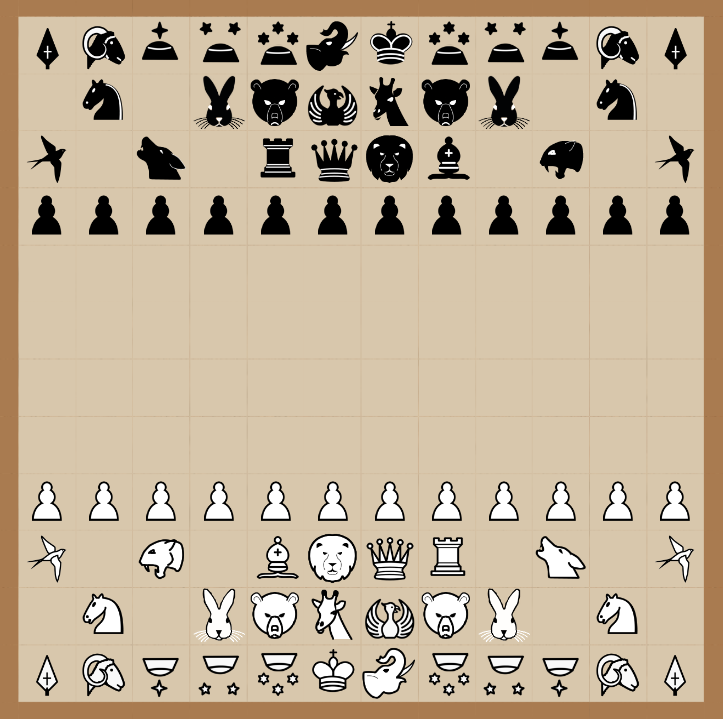
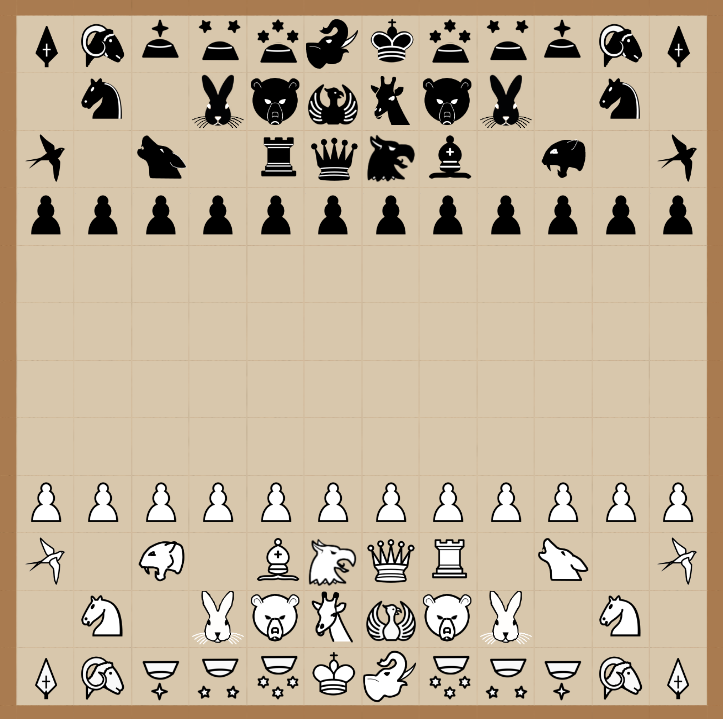
Seireigis : improve rules

diff --git a/src/games/chessbase/res/rules/shogi/chu-seireigi-shogi-rules.html b/src/games/chessbase/res/rules/shogi/chu-seireigi-shogi-rules.html
@@ -29,60 +29,76 @@
 <p><img style="max-width:100%;" src="{GAME}/res/rules/shogi/rook.png"/><b>Rook</b> : as in chess.</p>
 <p><img style="max-width:100%;" src="{GAME}/res/rules/shogi/bishop.png"/><b>Bishop</b> : as in chess.</p>
 <p><img style="max-width:100%;" src="{GAME}/res/rules/shogi/king.png"/><b>King</b> : as in chess.</p>
-<p><img style="max-width:100%;" src="{GAME}/res/rules/shogi/horse.png"/><b>Horse</b> : The Knight has the two forward-most moves of the Chess knight.</p>
+<p><img style="max-width:100%;" src="{GAME}/res/rules/shogi/horse.png"/><b>Knight</b> : The Knight has the two forward-most moves of the Chess knight.</p>
 <p><img class="piece-graph" src="{GAME}/res/rules/shogi/shogi-horse.png"/></p>
 <p><img style="max-width:100%;" src="{GAME}/res/rules/shogi/lance.png"/><b>Lance</b> : The Lance moves as a Rook but only forward in the same file, never sideways or backward.</p>
-<p><img class="piece-graph" src="{GAME}/res/rules/shogi/shogi-lance.png"/></p>
-<p><b><img style="max-width:100%;" src="{GAME}/res/rules/shogi/rabbit.png"/>Running Rabbit</b></p><p><img class="piece-graph" src="{GAME}/res/rules/shogi/graphs/rabbit.png"/></p>
-<p><b><img style="max-width:100%;" src="{GAME}/res/rules/shogi/flying-swallow.png"/>Swallow</b></p><p><img class="piece-graph" src="{GAME}/res/rules/shogi/graphs/swallow.png"/></p>
-
-<h2>Promotion</h2>
-<p><b><img style="max-width:100%;" src="{GAME}/res/rules/shogi/great-elephant.png"/> Great elephant</b> is the promotion of Gold general </p> 
+<p><img class="piece-graph" src="{GAME}/res/rules/shogi/graphs/shogi-lance.png"/></p>
+<p><b>Running rabbit</b></p><p><img class="piece-graph" src="{GAME}/res/rules/shogi/graphs/rabbit.png"/></p>
+<p><b>Flying swallow</b></p><p><img class="piece-graph" src="{GAME}/res/rules/shogi/graphs/swallow.png"/></p>
+<p><b>Copper general</b></p><p><img class="piece-graph" src="{GAME}/res/rules/shogi/graphs/copper.png"/></p>
+<p><b>Strong bear</b></p><p><img class="piece-graph" src="{GAME}/res/rules/shogi/graphs/bear.png"/></p>
+<p><img style="max-width:100%;" src="{GAME}/res/rules/shogi/great-elephant.png"/><b>Great elephant</b></p>
 <p><img class="piece-graph" src="{GAME}/res/rules/shogi/graphs/great-elephant.png"/></p>
-
-<p><b><img style="max-width:100%;" src="{GAME}/res/rules/shogi/running-wolf.png"/> Running Wolf </b> is the promotion of Silver general</p> 
+<p><img style="max-width:100%;" src="{GAME}/res/rules/shogi/running-wolf.png"/><b>Running wolf</b></p>
 <p><img class="piece-graph" src="{GAME}/res/rules/shogi/graphs/running-wolf.png"/></p>
-<p><b><img style="max-width:100%;" src="{GAME}/res/rules/shogi/great-leopard.png"/>Great Leopard </b> is the promotion of Copper general</p> 
-<p><b><img class="piece-graph" src="{GAME}/res/rules/shogi/graphs/great-Leopard.png"/></p>
-<p><b><img style="max-width:100%;" src="{GAME}/res/rules/shogi/heavenly-horse.png"/>Heavenly horse</b> is the promotion of shogi horse </p> 
+<p><img style="max-width:100%;" src="{GAME}/res/fairy/icons/w-leopard.png"/><b>Great leopard</b></p>
+<p><img class="piece-graph" src="{GAME}/res/rules/shogi/graphs/great-leopard.png"/></p>
+<p><b>Lion Hawk</b></p>
+<p><img class="piece-graph" src="{GAME}/res/rules/shogi/graphs/seireigi-lion-hawk.png"/></p>
+
+
+<p><b>Ram's-head soldier</b> : moves as a Bishop but only forward, never backward.</p>
+<p><b>Kirin</b> : as in chu shogi.</p>
+<p><b>Phoenix</b> : as in chu shogi.</p>
+<p><b>Queen</b> : as in chess.</p>
+
+<h2>Promotion-exclusive Pieces</h2>
+<p><img style="max-width:100%;" src="{GAME}/res/rules/shogi/heavenly-horse.png"/><b>Heavenly horse</b> is the promotion of the Knight</p> 
 <p><img class="piece-graph" src="{GAME}/res/rules/shogi/graphs/heavenly-horse.png"/></p>
-<p><b> <img style="max-width:100%;" src="{GAME}/res/rules/shogi/free-tiger.png"/>Free Tiger</b> is the promotion of Lance</p> 
+<p><img style="max-width:100%;" src="{GAME}/res/rules/shogi/free-tiger.png"/><b>Free tiger</b> is the promotion of the Lance</p> 
 <p><img class="piece-graph" src="{GAME}/res/rules/shogi/graphs/free-tiger.png"/></p>
 
 
-<p><b><img style="max-width:100%;" src="{GAME}/res/rules/shogi/flying-ox.png"/>Flying Ox</b> is the promotion of the Great Leopard</b></p>
+<p><img class='piece-icon' src="{GAME}/res/fairy/icons/w-flying-ox.png"/><b>Flying ox</b> is the promotion of the Great leopard</p>
 <p><img class='piece-graph' src="{GAME}/res/rules/shogi/graphs/flying-ox.png"/></p>
 
-<p><b><img style="max-width:100%;" src="{GAME}/res/rules/shogi/free-boar.png"/>Free Boar</b> is the promotion of the Running Wolf</p>
+<p><img class='piece-icon' src="{GAME}/res/fairy/icons/w-free-boar.png"/><b>Free boar</b> is the promotion of the Running wolf</p>
 <p><img class='piece-graph' src="{GAME}/res/rules/shogi/graphs/boar.png"/></p>
 
-<p><b><img style="max-width:100%;" src="{GAME}/res/rules/shogi/seireigi-whale.png"/>Whale</b> is the promotion of the Strong Bear </p>
+<p><img class='piece-icon' src="{GAME}/res/rules/shogi/w-trident.png"/><b>Whale</b> is the promotion of the Strong bear</p>
 <p><img class='piece-graph' src="{GAME}/res/rules/shogi/graphs/seireigi-whale.png"/></p>
-
-
-<p><b><img style="max-width:100%;" src="{GAME}/res/rules/shogi/prancing-stag.png"/>Prancing Stag</b> is the promotion of the Running Rabbit</p> 
+<p><b>Prancing stag</b> is the promotion of the Running rabbit</p> 
 <p><img class="piece-graph" src="{GAME}/res/rules/shogi/graphs/stag.png"/></p>
-<p><b>Teaching King</b> is the promotion of the Great Elephant</p> <p><img class="piece-graph" src="{GAME}/res/rules/shogi/graphs/teacher.png"/></p>
+<p><b>Teaching king</b> is the promotion of the Great elephant</p> <p><img class="piece-graph" src="{GAME}/res/rules/shogi/graphs/teacher.png"/></p>
+<p><b>Treacherous fox</b> is the promotion of the Ram's-head soldier</p> <p><img class="piece-graph" src="{GAME}/res/rules/shogi/graphs/fox.png"/></p>
+<p><b>Golden bird</b> is the promotion of the Flying swallow</p> <p><img class="piece-graph" src="{GAME}/res/rules/shogi/graphs/bird.png"/></p>
+<p><b>Pawn</b> promotes to <b>Tokin</b>, which move like a Gold general.</p>
+<p><b>Rook</b> and <b>Bishop</b> gain king move upon promotion to <b>Dragon king</b> and <b>Dragon horse</b>, respectively.</p>
 
-
-
-<p><b><img style="max-width:100%;" src="{GAME}/res/rules/shogi/treacherous-fox.png"/>Treacherous Fox</b> is the promotion of the Ram's-Head Soldier</p> <p><img class="piece-graph" src="{GAME}/res/rules/shogi/graphs/fox.png"/></p>
-<p><b>Golden Bird</b> is the promotion of the lying Swallow</p> <p><img class="piece-graph" src="{GAME}/res/rules/shogi/graphs/bird.png"/></p>
-<p><b>Pawn</b> promotes to tokin that move like a gold general </p>
-<p><b>Rook and bishop</b> gain king move with promotion </p>
+<h2>Promotions</h2>
+<p>Pawn -> Tokin = Gold general -> Great elephant -> Teaching king</p>
+<p>Copper general -> Great leopard -> Flying ox</p>
+<p>Silver general -> Running wolf -> Free boar</p>
+<p>Kirin -> Bishop -> Dragon horse</p>
+<p>Phoenix -> Rook -> Dragon king</p>
+<p>Strong bear -> Whale</p>
+<p>Lance -> Free tiger</p>
+<p>Ram's-head soldier -> Treacherous fox</p>
+<p>Running rabbit -> Prancing stag</p>
+<p>Knight -> Heavenly horse</p>
+<p>Flying swallow -> Golden bird</p>
+<p>The promotion zone is the farthest four ranks of the board, and a piece may promote if part of its move touches the zone. Promotion is optional unless no subsequent move is possible otherwise. So a Pawn, Lance, Ram's-head soldier, or Running rabbit must promote on the last row, and a Knight or Flying swallow must promote on the last two rows.</p>
+<p>The King, Queen, and Lion Hawk do not promote, nor can already promoted pieces promote further.</p>
 
 
 <h2>Drops</h2>
 <p>Captured pieces become prisoners and lose their promotion, guarded on your right. You can use your turn to put them back into play. A player can either move one of his pieces or drop a prisoner back into play on his behalf. </p>
 
-<p>A pawn can’t be dropped on a column with an unpromoted pawn of the same color.</p>
+<p>A Pawn can’t be dropped on a column with an unpromoted Pawn of the same color.</p>
 
-<p>A pawn can’t make an immediate checkmate when dropped. It is allowed for other pieces.</p>
+<p>A Pawn can’t make an immediate checkmate when dropped. It is allowed for other pieces.</p>
 
-<p>A piece can’t be dropped is no subsequent move is possible, so a pawn cannot be dropped on the last line.</p>
+<p>A piece can’t be dropped where no subsequent move is possible, so a Pawn, Lance, Ram's-head soldier, or Running rabbit cannot be dropped on the last row, and a Knight or Flying swallow cannot be dropped on the last two rows.</p>
 
 <h2>Available skins</h2>
 <p>2D skins are available for all, 3D skins need WebGL so please use Chrome or Firefox.</p>
-
-
-

diff --git a/src/games/chessbase/res/rules/shogi/seireigi-rules.html b/src/games/chessbase/res/rules/shogi/seireigi-rules.html
@@ -6,8 +6,8 @@
         display: inline-flex;
     }
 </style>
-<h2>Seireigi Shogi</h2>
-<p>Seireigi shogi differs from shogi in its promotions. 
+<h2>Seireigi</h2>
+<p>Seireigi differs from shogi in its promotions. 
 To win you have to checkmate the king of your opponent.</p>
 
 <h2>Board</h2>
@@ -46,34 +46,34 @@ To win you have to checkmate the king of your opponent.</p>
 <p><img style="max-width:100%;" src="{GAME}/res/rules/shogi/rook.png"/><b>Rook</b> : as in chess.</p>
 <p><img style="max-width:100%;" src="{GAME}/res/rules/shogi/bishop.png"/><b>Bishop</b> : as in chess.</p>
 <p><img style="max-width:100%;" src="{GAME}/res/rules/shogi/king.png"/><b>King</b> : as in chess.</p>
-<p><img style="max-width:100%;" src="{GAME}/res/rules/shogi/horse.png"/><b>Horse</b> : The Knight has the two forward-most moves of the Chess knight.</p>
+<p><img style="max-width:100%;" src="{GAME}/res/rules/shogi/horse.png"/><b>Knight</b> : The Knight has the two forward-most moves of the Chess knight.</p>
 <p><img class="piece-graph" src="{GAME}/res/rules/shogi/shogi-horse.png"/></p>
 <p><img style="max-width:100%;" src="{GAME}/res/rules/shogi/lance.png"/><b>Lance</b> : The Lance moves as a Rook but only forward in the same file, never sideways or backward.</p>
-<p><img class="piece-graph" src="{GAME}/res/rules/shogi/shogi-lance.png"/></p>
-<h2>Promotion</h2>
-<p><b><img style="max-width:100%;" src="{GAME}/res/rules/shogi/great-elephant.png"/> Great elephant</b> is the promotion of Gold general </p> 
+<p><img class="piece-graph" src="{GAME}/res/rules/shogi/graphs/shogi-lance.png"/></p>
+<h2>Promotions</h2>
+<p><b><img style="max-width:100%;" src="{GAME}/res/rules/shogi/great-elephant.png"/> Great elephant</b> is the promotion of Gold general</p> 
 <p><img class="piece-graph" src="{GAME}/res/rules/shogi/graphs/great-elephant.png"/></p>
 <p><b><img style="max-width:100%;" src="{GAME}/res/rules/shogi/running-wolf.png"/> Running wolf </b> is the promotion of Silver general</p> 
 <p><img class="piece-graph" src="{GAME}/res/rules/shogi/graphs/running-wolf.png"/></p>
-<p><b><img style="max-width:100%;" src="{GAME}/res/rules/shogi/heavenly-horse.png"/>Heavenly horse</b> is the promotion of shogi horse </p> 
+<p><b><img style="max-width:100%;" src="{GAME}/res/rules/shogi/heavenly-horse.png"/>Heavenly horse</b> is the promotion of Knight</p> 
 <p><img class="piece-graph" src="{GAME}/res/rules/shogi//graphs/heavenly-horse.png"/></p>
-<p>><b> <img style="max-width:100%;" src="{GAME}/res/rules/shogi/free-tiger.png"/>Free Tiger</b> is the promotion of Lance</p> 
+<p><b> <img style="max-width:100%;" src="{GAME}/res/rules/shogi/free-tiger.png"/>Free tiger</b> is the promotion of Lance</p> 
 <p><img class="piece-graph" src="{GAME}/res/rules/shogi//graphs/free-tiger.png"/></p>
-<p><b>Pawn</b> promotes to tokin that move like a gold general </p>
-<p><b>Rook and bishop</b> gain king move with promotion </p>
+<p><b>Pawn</b> promotes to <b>Tokin</b>, which move like a Gold general.</p>
+<p><b>Rook</b> and <b>Bishop</b> gain king move upon promotion to <b>Dragon king</b> and <b>Dragon horse</b>, respectively.</p>
 
+<p>The promotion zone is the farthest three rows of the board, and a piece may promote if part of its move touches the zone. Promotion is optional unless no subsequent move is possible otherwise. So a Pawn or Lance must promote on the last row, and a Knight must promote on the last two rows.</p>
+<p>The King does not promote, nor can already promoted pieces promote further.</p>
 
 <h2>Drops</h2>
 <p>Captured pieces become prisoners and lose their promotion, guarded on your right. You can use your turn to put them back into play. A player can either move one of his pieces or drop a prisoner back into play on his behalf. </p>
 
-<p>A pawn can’t be dropped on a column with an unpromoted pawn of the same color.</p>
+<p>A Pawn can’t be dropped on a column with an unpromoted Pawn of the same color.</p>
 
-<p>A pawn can’t make an immediate checkmate when dropped. It is allowed for other pieces.</p>
+<p>A Pawn can’t make an immediate checkmate when dropped. It is allowed for other pieces.</p>
 
-<p>A piece can’t be dropped is no subsequent move is possible, so a pawn cannot be dropped on the last line.</p>
+<p>A piece can’t be dropped is no subsequent move is possible, so a Pawn or Lance cannot be dropped on the last row, and a Knight cannot be dropped on the last two rows.</p>
 
 <h2>Available skins</h2>
 <p>2D skins are available for all, 3D skins need WebGL so please use Chrome or Firefox.</p>
-
-
 

diff --git a/src/games/chessbase/index.js b/src/games/chessbase/index.js
@@ -7327,7 +7327,7 @@ exports.games = (function () {
 			"viewScripts": config_view_js_105
 		},
 		{
-			"name": "seireigi-shogi",
+			"name": "seireigi",
 			"modelScripts": modelScripts_seireigi,
 			"config": {
 				"status": true,
@@ -7336,20 +7336,20 @@ exports.games = (function () {
 					"title-en": "Seireigi",
 					"summary": "Shogi with more varied promotions",
 					"rules": {
-						"en": "res/rules/shogi/seireigi-shogi-rules.html",
-						"fr": "res/rules/shogi/seireigi-shogi-rules_fr.html"
+						"en": "res/rules/shogi/seireigi-rules.html",
+						"fr": "res/rules/shogi/seireigi-rules_fr.html"
 					},
 					"module": "chessbase",
 					"plazza": "true",
-					"thumbnail": "res/rules/shogi/seireigi-shogi-thumb.png",
+					"thumbnail": "res/rules/shogi/seireigi-thumb.png",
 					"released": 1396536978,
 					"credits": {
-						"en": "res/rules/shogi/seireigi-shogi-credits.html"
+						"en": "res/rules/shogi/seireigi-credits.html"
 					},
 					"gameOptions": config_model_gameOptions_2,
 					"js": modelScripts_seireigi,
 					"description": {
-						"en": "res/rules/shogi/seireigi-shogi-description.html"
+						"en": "res/rules/shogi/seireigi-description.html"
 					},
 					"levels": config_model_levels_15
 				},
@@ -7357,8 +7357,8 @@ exports.games = (function () {
 					"title-en": "Chessbase view",
 					"visuals": {
 						"600x600": [
-							"res/visuals/seireigi-shogi-600x600-3d.jpg",
-							"res/visuals/seireigi-shogi-600x600-2d.jpg"
+							"res/visuals/seireigi-600x600-3d.jpg",
+							"res/visuals/seireigi-600x600-2d.jpg"
 						]
 					},
 					"xdView": true,
@@ -7425,7 +7425,7 @@ exports.games = (function () {
 					"gameOptions": config_model_gameOptions_2,
 					"js": modelScripts_chu_seireigi,
 					"description": {
-						"en": "res/rules/shogi/seireigi-shogi-description.html"
+						"en": "res/rules/shogi/chu-seireigi-description.html"
 					},
 					"levels": config_model_levels_15
 				},

diff --git a/src/games/chessbase/shogi/chu-seireigi-model.js b/src/games/chessbase/shogi/chu-seireigi-model.js
@@ -675,10 +675,10 @@
                     hand: 17,
 				},
 				66: {
-					name: 'lion-w',
-					aspect: 'sh-lion',
-					graph: this.cbDropGraph(geometry, [[-2,0],[-2,-1],[-2,-2],[-1,-2],[0,-2],[1,-2],[2,-2],[2,-1],[2,0],[2,1],[2,2],[1,2],[0,2],[-1,2],[-2,2],[-2,1]],[[1,1],[1,-1],[-1,1],[-1,-1]]),
-					value: 10,
+					name: 'lion-hawk-w',
+					aspect: 'sh-lionhawk',
+                    graph: this.cbDropGraph(geometry, [[-2,0],[-2,-1],[-2,-2],[-1,-2],[0,-2],[1,-2],[2,-2],[2,-1],[2,0],[2,1],[2,2],[1,2],[0,2],[-1,2],[-2,2],[-2,1]],[[1,1],[1,-1],[-1,1],[-1,-1]]),
+					value: 11,
 					abbrev: 'LN',
 					fenAbbrev: 'N',
 					initial: [{s:1,p:55}],
@@ -686,10 +686,10 @@
 					hand: 18,
 				},
 				67: {
-					name: 'lion-b',
-					aspect: 'sh-lion',
-					graph: this.cbDropGraph(geometry, [[-2,0],[-2,-1],[-2,-2],[-1,-2],[0,-2],[1,-2],[2,-2],[2,-1],[2,0],[2,1],[2,2],[1,2],[0,2],[-1,2],[-2,2],[-2,1]],[[1,1],[1,-1],[-1,1],[-1,-1]]),
-					value: 10,
+					name: 'lion-hawk-b',
+					aspect: 'sh-lionhawk',
+                    graph: this.cbDropGraph(geometry, [[-2,0],[-2,-1],[-2,-2],[-1,-2],[0,-2],[1,-2],[2,-2],[2,-1],[2,0],[2,1],[2,2],[1,2],[0,2],[-1,2],[-2,2],[-2,1]],[[1,1],[1,-1],[-1,1],[-1,-1]]),
+					value: 11,
 					abbrev: 'LN',
 					initial: [{s:-1,p:168}],
 					demoted: 66,

diff --git a/src/games/chessbase/res/rules/shogi/seireigi-rules_fr.html b/src/games/chessbase/res/rules/shogi/seireigi-rules_fr.html
@@ -50,7 +50,7 @@
 <p><img style="max-width:100%;" src="{GAME}/res/rules/shogi/horse.png"/><b>Cheval</b> : Le cheval se déplace comme le cavalier mais uniquement vers l’avant.</p>
 <p><img class='piece-graph'  src="{GAME}/res/rules/shogi/shogi-horse.png"/></p>
 <p><img style="max-width:100%;" src="{GAME}/res/rules/shogi/lance.png"/><b>Lance</b> : La Lance se déplace comme une Tour mais seulement vers l'avant dans la même colonne, jamais latéralement ou vers l'arrière..</p>
-<p><img class='piece-graph'  src="{GAME}/res/rules/shogi/shogi-lance.png"/></p>
+<p><img class='piece-graph'  src="{GAME}/res/rules/shogi/graphs/shogi-lance.png"/></p>
 <h2>Promotion</h2>
 <p><b><img style="max-width:100%;" src="{GAME}/res/rules/shogi/great-elephant.png"/> Le grand éléphant</b> est la promotion du général d'or </p> 
 <p><img class="piece-graph" src="{GAME}/res/rules/shogi/graphs/great-elephant.png"/></p>

diff --git a/src/games/chessbase/res/rules/3dchess/space-spartan-rules.html b/src/games/chessbase/res/rules/3dchess/space-spartan-rules.html
@@ -52,6 +52,7 @@
 <h3>King</h3>
 <p>The King moves like orthodox King on its current plane, but can go to another plane for captures only (see figure).</p>
 <p style='text-align:center'><img style="max-width:100%;" src="{GAME}/res/rules/3dchess/graph/king.png"/></p>
+<h2>Spartan Pieces</h2>
 <h3>Hoplit</h3>
 <p>Moves 1 step diagonally forward, and captures one step straight ahead (also above and below). In its initial location it can also jump 2 steps diagonally forward to an empty square.</p>
 <p style='text-align:center'><img style="max-width:100%;" src="{GAME}/res/rules/3dchess/graph/hoplit.png"/></p>
@@ -78,4 +79,4 @@
 <p>Double move for Pawns (start): yes.</p>
 <p>Castling: yes.</p>
 <p>"En passant" capture: yes.</p>
-<h2>Spartan Pieces</h2>
+

diff --git a/src/games/chessbase/res/rules/shogi/shogi-rules_fr.html b/src/games/chessbase/res/rules/shogi/shogi-rules_fr.html
@@ -50,7 +50,7 @@
 <p><img style="max-width:100%;" src="{GAME}/res/rules/shogi/horse.png"/><b>Cheval</b> : Le cheval se déplace comme le cavalier mais uniquement vers l’avant.</p>
 <p><img class='piece-graph'  src="{GAME}/res/rules/shogi/shogi-horse.png"/></p>
 <p><img style="max-width:100%;" src="{GAME}/res/rules/shogi/lance.png"/><b>Lance</b> : La Lance se déplace comme une Tour mais seulement vers l'avant dans la même colonne, jamais latéralement ou vers l'arrière.</p>
-<p><img class='piece-graph'  src="{GAME}/res/rules/shogi/shogi-lance.png"/></p>
+<p><img class='piece-graph'  src="{GAME}/res/rules/shogi/graphs/shogi-lance.png"/></p>
 <h2>Promotion</h2>
 
 <ul>

diff --git a/src/games/chessbase/res/rules/shogi/kyoto-shogi-rules_fr.html b/src/games/chessbase/res/rules/shogi/kyoto-shogi-rules_fr.html
@@ -55,7 +55,7 @@
 <p><img style="max-width:100%;" src="{GAME}/res/rules/shogi/horse.png"/><b>Cheval</b> : Le cheval se déplace comme le cavalier mais uniquement vers l’avant.</p>
 <p><img class='piece-graph'  src="{GAME}/res/rules/shogi/shogi-horse.png"/></p>
 <p><img style="max-width:100%;" src="{GAME}/res/rules/shogi/lance.png"/><b>Lance</b> : La Lance se déplace comme une Tour mais seulement vers l'avant dans la même colonne, jamais latéralement ou vers l'arrière.</p>
-<p><img class="piece-graph" src="{GAME}/res/rules/shogi/shogi-lance.png"/></p>
+<p><img class="piece-graph" src="{GAME}/res/rules/shogi/graphs/shogi-lance.png"/></p>
 <h2>Promotion</h2>
 
 <ul>

diff --git a/src/games/chessbase/res/rules/shogi/shogi-rules.html b/src/games/chessbase/res/rules/shogi/shogi-rules.html
@@ -48,7 +48,7 @@
 <p><img style="max-width:100%;" src="{GAME}/res/rules/shogi/horse.png"/><b>Horse</b> : The Knight has the two forward-most moves of the Chess knight.</p>
 <p><img class='piece-graph'  src="{GAME}/res/rules/shogi/shogi-horse.png"/></p>
 <p><img style="max-width:100%;" src="{GAME}/res/rules/shogi/lance.png"/><b>Lance</b> : The Lance moves as a Rook but only forward in the same file, never sideways or backward.</p>
-<p><img class='piece-graph'  src="{GAME}/res/rules/shogi/shogi-lance.png"/></p>
+<p><img class='piece-graph'  src="{GAME}/res/rules/shogi/graphs/shogi-lance.png"/></p>
 <h2>Promotion</h2>
 
 <ul>

diff --git a/src/games/chessbase/res/rules/shogi/kyoto-shogi-rules.html b/src/games/chessbase/res/rules/shogi/kyoto-shogi-rules.html
@@ -48,7 +48,7 @@
 <p><img style="max-width:100%;" src="{GAME}/res/rules/shogi/horse.png"/><b>Horse</b> : The Knight has the two forward-most moves of the Chess knight.</p>
 <p><img class="piece-graph" src="{GAME}/res/rules/shogi/shogi-horse.png"/></p>
 <p><img style="max-width:100%;" src="{GAME}/res/rules/shogi/lance.png"/><b>Lance</b> : The Lance moves as a Rook but only forward in the same file, never sideways or backward.</p>
-<p><img class="piece-graph" src="{GAME}/res/rules/shogi/shogi-lance.png"/></p>
+<p><img class="piece-graph" src="{GAME}/res/rules/shogi/graphs/shogi-lance.png"/></p>
 <h2>Promotion</h2>
 
 <ul>

diff --git a/src/games/chessbase/res/rules/decimal/hectochess-rules.html b/src/games/chessbase/res/rules/decimal/hectochess-rules.html
@@ -125,6 +125,18 @@
 <img class='piece-graph' src='{GAME}/res/rules/graphs/rook.png'>
 </p>
 
+<h2>Pawn</h2>
+<p>
+<img style="max-width:100%;" src="{GAME}/res/fairy/icons/w-pawn.png"/>
+</p>
+<p class='piece-details'>Exactly as in usual Chess.</p>
+
+<div style='clear:both'></div>
+<p>
+<img class='piece-graph' src='{GAME}/res/rules/graphs/pawn.png'>
+</p>
+<p>Can move two squares only on their first move, and capture <i>en passant</i> only when the target pawn has just moved two squares.</p>
+
 </p>
 <h1>Promotions table</h1>
 <div id="promo">
@@ -136,5 +148,6 @@
 
 
 <br clear="all">
+
 
 

diff --git a/src/games/chessbase/shogi/chu-seireigi-set-view.js b/src/games/chessbase/shogi/chu-seireigi-set-view.js
@@ -153,7 +153,7 @@ var CANVAS_SIZE = 512;
 					clipx: 3200,
 				},				
 			},
-			"sh-lion": {
+			"sh-lionhawk": {
 				"2d": {
 					clipx: 3300,
 				},				
@@ -670,7 +670,7 @@ var CANVAS_SIZE = 512;
 				}
 			},
 		},
-		"sh-lion": {
+		"sh-lionhawk": {
 			mesh: {
 				jsFile:"/res/shogi/j-tile.js"
 			},
@@ -679,7 +679,7 @@ var CANVAS_SIZE = 512;
 					channels: {
 						diffuse: {
 							texturesImg: {
-								diffImg : "/res/shogi/chu-diffusemaps/lion-b.jpg",
+								diffImg : "/res/shogi/tenjiku-diffusemaps/hawk-b.jpg",
 							}
 						},
 						normal: {
